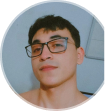
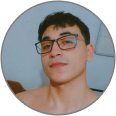
alterando atributos como do alt na mudança de temas

diff --git a/script.js b/script.js
@@ -5,11 +5,18 @@ function themeMode () {
     //selecionar a imagem
     const img =document.querySelector("#profile img")
     //fazer a troca da imagem
-    if (html.classList.contains("ligth")){
+    if (html.classList.contains("light")){
     //se estiver no light altere a foto 
         img.setAttribute("src","./fotos/avatar_dark.png")
     }else{
     //se ñ pode manter a padrão
         img.setAttribute("src", "./fotos/avatar.png")
+    }
+
+
+    if (html.classList.contains("light")) {
+        img.alt = "Uma self com uma parede barnca no fundo, Matheus esta usando um oculos com armação preta com um filtro mais claro";
+    } else {
+        img.alt = "Uma self com uma parede barnca no fundo, Matheus esta usando um oculos com armação preta com um filtro mais dark";
     }
 }

diff --git a/style.css b/style.css
@@ -67,6 +67,7 @@ body{
     transform: translateY(-50%);
     top: 50%;
     left: 0;
+    border: 1px solid black;
 }
 .light #switch button{
     right:0;
